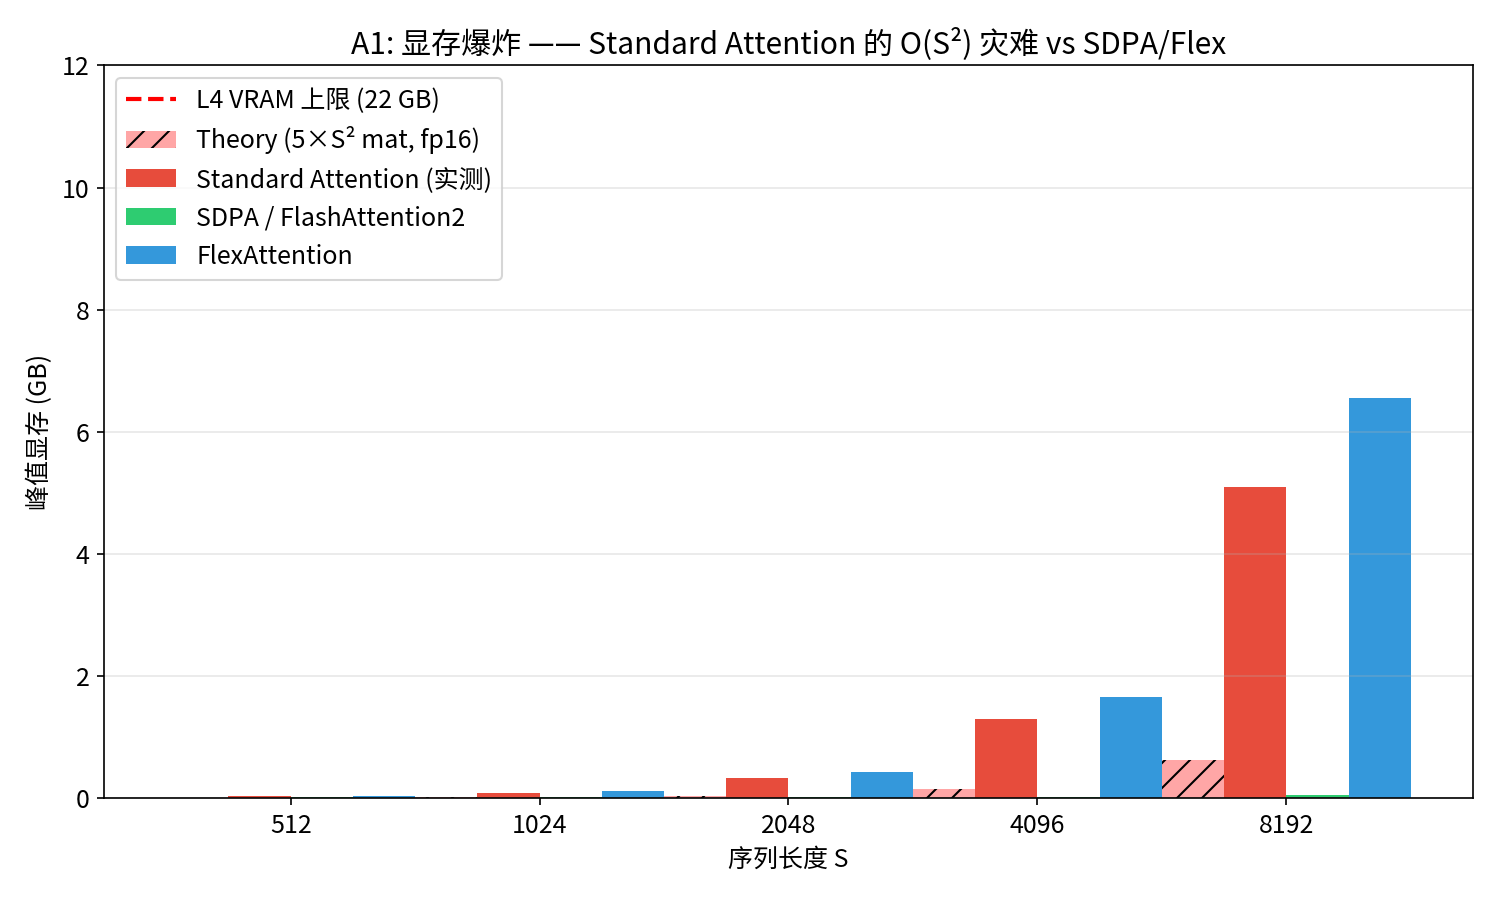
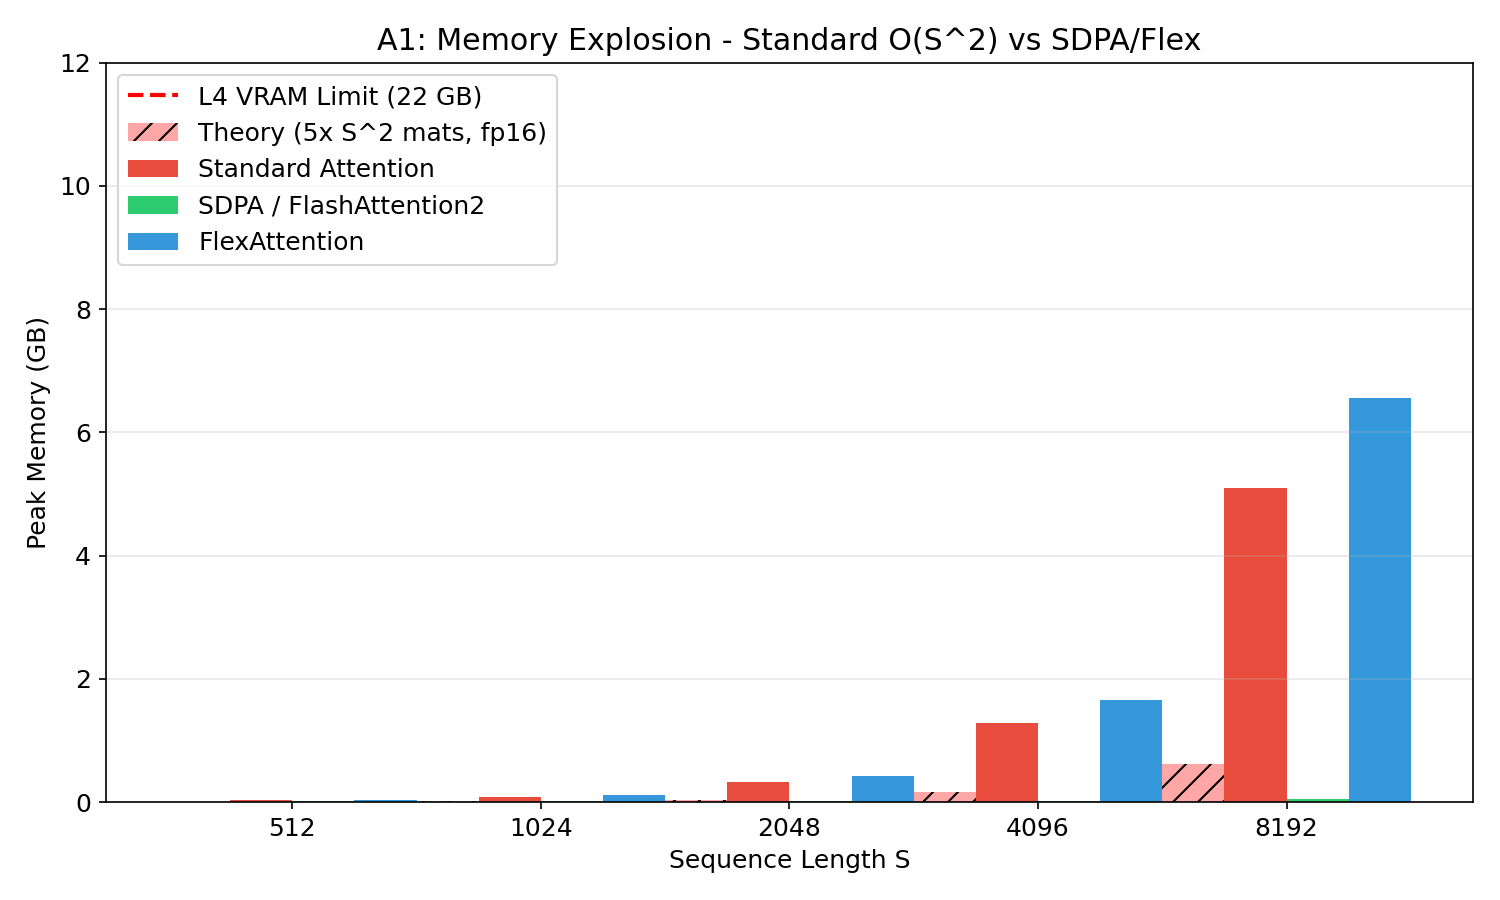
fix: use English for all chart text to fix garbled characters

diff --git a/flexatten_deep_dive.py b/flexatten_deep_dive.py
@@ -22,7 +22,7 @@ from pathlib import Path
 
 plt.rcParams['font.size'] = 12
 plt.rcParams['figure.dpi'] = 150
-plt.rcParams['font.family'] = ['Noto Sans CJK SC', 'DejaVu Sans']
+plt.rcParams['font.family'] = 'DejaVu Sans'
 plt.rcParams['axes.unicode_minus'] = False
 
 device = "cuda"
@@ -133,16 +133,16 @@ def exp_A1_memory_explosion():
     vals_flex = [actual_flex.get(s) for s in seqs]
     vals_theory = [theory[s] for s in seqs]
 
-    ax.bar(x - 1.5*w, vals_theory, w, label='Theory (5×S² mat, fp16)', color='#ff6b6b', alpha=0.6, hatch='//')
-    ax.bar(x - 0.5*w, [v if v else 0 for v in vals_std], w, label='Standard Attention (实测)', color='#e74c3c')
+    ax.bar(x - 1.5*w, vals_theory, w, label='Theory (5x S^2 mats, fp16)', color='#ff6b6b', alpha=0.6, hatch='//')
+    ax.bar(x - 0.5*w, [v if v else 0 for v in vals_std], w, label='Standard Attention', color='#e74c3c')
     ax.bar(x + 0.5*w, [v if v else 0 for v in vals_sdpa], w, label='SDPA / FlashAttention2', color='#2ecc71')
     ax.bar(x + 1.5*w, [v if v else 0 for v in vals_flex], w, label='FlexAttention', color='#3498db')
 
-    ax.axhline(y=22.0, color='red', linestyle='--', linewidth=2, label='L4 VRAM 上限 (22 GB)')
+    ax.axhline(y=22.0, color='red', linestyle='--', linewidth=2, label='L4 VRAM Limit (22 GB)')
 
-    ax.set_xlabel('序列长度 S')
-    ax.set_ylabel('峰值显存 (GB)')
-    ax.set_title('A1: 显存爆炸 —— Standard Attention 的 O(S²) 灾难 vs SDPA/Flex')
+    ax.set_xlabel('Sequence Length S')
+    ax.set_ylabel('Peak Memory (GB)')
+    ax.set_title('A1: Memory Explosion - Standard O(S^2) vs SDPA/Flex')
     ax.set_xticks(x)
     ax.set_xticklabels([str(s) for s in seqs])
     ax.legend(loc='upper left')
@@ -160,7 +160,7 @@ def exp_A1_memory_explosion():
 # ================================================================
 def exp_A2_bandwidth_starvation():
     print("\n" + "="*70)
-    print("  A2: 带宽饥饿 —— Standard 的多次 HBM 往返 vs SDPA 的单次闭环")
+    print("  A2: Bandwidth Starvation - Standard vs SDPA")
     print("="*70)
     H, D, B = 8, 64, 1
 
@@ -204,13 +204,13 @@ def exp_A2_bandwidth_starvation():
     # === 画图 A2: 速度对比 ===
     fig, ax = plt.subplots(figsize=(10, 6))
     seqs = sorted(std_times.keys())
-    ax.plot(seqs, [std_times[s] for s in seqs], 'o-', color='#e74c3c', linewidth=2, markersize=8, label='Standard Attention (多kernel串联)')
-    ax.plot(seqs, [sdpa_times[s] for s in seqs], 's-', color='#2ecc71', linewidth=2, markersize=8, label='SDPA / FlashAttention2 (单Fused kernel)')
-    ax.plot(seqs, [flex_times[s] for s in seqs], '^-', color='#3498db', linewidth=2, markersize=8, label='FlexAttention (Triton Fused kernel)')
+    ax.plot(seqs, [std_times[s] for s in seqs], 'o-', color='#e74c3c', linewidth=2, markersize=8, label='Standard (multi-kernel chain)')
+    ax.plot(seqs, [sdpa_times[s] for s in seqs], 's-', color='#2ecc71', linewidth=2, markersize=8, label='SDPA (single Fused kernel)')
+    ax.plot(seqs, [flex_times[s] for s in seqs], '^-', color='#3498db', linewidth=2, markersize=8, label='FlexAttention (Triton Fused)')
 
-    ax.set_xlabel('序列长度 S')
-    ax.set_ylabel('延迟 (ms)')
-    ax.set_title('A2: 带宽饥饿 —— 多次 HBM 往返 vs Fused Kernel 单次闭环')
+    ax.set_xlabel('Sequence Length S')
+    ax.set_ylabel('Latency (ms)')
+    ax.set_title('A2: Bandwidth Starvation - Multi HBM Trips vs Fused Kernel')
     ax.legend()
     ax.grid(alpha=0.3)
     ax.set_yscale('log')
@@ -303,15 +303,15 @@ def exp_A3_engineering_nightmare():
     steps = [7, 3]
     colors = ['#e74c3c', '#3498db']
     bars = ax1.bar(categories, steps, color=colors, width=0.5, edgecolor='black')
-    ax1.set_ylabel('实现步骤数')
-    ax1.set_title('A3-1: 代码复杂度 —— Document+SlidingWindow+ALiBi 组合')
+    ax1.set_ylabel('Implementation Steps')
+    ax1.set_title('A3-1: Code Complexity - Doc+SW+ALiBi Combo')
     for bar, s in zip(bars, steps):
         ax1.text(bar.get_x() + bar.get_width()/2., bar.get_height() + 0.1, str(s), ha='center', fontsize=16, fontweight='bold')
     ax1.set_ylim(0, 9)
     ax1.grid(axis='y', alpha=0.3)
 
     # 右图：性能对比
-    metrics = ['延迟 (ms)', '显存 (GB)']
+    metrics = ['Latency (ms)', 'Memory (GB)']
     vanilla_vals = [time_vanilla, mem_vanilla * 1000]  # scale for visibility
     flex_vals = [time_flex, mem_flex * 1000]
     x = np.arange(len(metrics))
@@ -321,7 +321,7 @@ def exp_A3_engineering_nightmare():
     b2 = ax2.bar(x + w/2, [time_flex, mem_flex], w, label='Flex', color='#3498db')
     ax2.set_xticks(x)
     ax2.set_xticklabels(metrics)
-    ax2.set_title('A3-2: 性能对比 —— 组合注意力模式')
+    ax2.set_title('A3-2: Performance - Combined Attention Mode')
     ax2.legend()
     ax2.grid(axis='y', alpha=0.3)
     for bar in b1:
@@ -344,7 +344,7 @@ def exp_A3_engineering_nightmare():
 # ================================================================
 def exp_B1_score_mod_fusion():
     print("\n" + "="*70)
-    print("  B1: score_mod 算子融合 —— 写后改 vs 融合计算")
+    print("  B1: score_mod Fusion - Write-Modify vs Fused")
     print("="*70)
     H, D, B = 8, 64, 1
     S = 2048
@@ -379,11 +379,11 @@ def exp_B1_score_mod_fusion():
 
     mem_std = peak_mem(write_then_modify)
     time_std = bench(write_then_modify, warmup=1, runs=5)
-    print(f"  写后改 (Standard): {time_std:.3f} ms, {mem_std:.3f} GB")
+    print(f"  Write-modify (Std): {time_std:.3f} ms, {mem_std:.3f} GB")
 
     mem_flex = peak_mem(lambda: flex_attention(q, k, v, score_mod=alibi_mod, block_mask=bm))
     time_flex = bench(lambda: flex_attention(q, k, v, score_mod=alibi_mod, block_mask=bm), warmup=2, runs=5)
-    print(f"  融合计算 (Flex):   {time_flex:.3f} ms, {mem_flex:.3f} GB")
+    print(f"  Fused (Flex):   {time_flex:.3f} ms, {mem_flex:.3f} GB")
 
     # 验证数值
     o1 = write_then_modify()
@@ -397,10 +397,10 @@ def exp_B1_score_mod_fusion():
     # 左图：HBM 访存流程示意
     ax1.set_xlim(0, 10)
     ax1.set_ylim(0, 10)
-    ax1.set_title('B1-1: HBM 访存路径对比')
+    ax1.set_title('B1-1: HBM Access Path Comparison')
 
     # Standard flow
-    ax1.text(0.5, 9.5, 'Standard (写后改)', fontsize=11, fontweight='bold', color='#e74c3c')
+    ax1.text(0.5, 9.5, 'Standard (write-then-modify)', fontsize=11, fontweight='bold', color='#e74c3c')
     steps_std = ['QK^T → HBM', '读HBM +Bias', '写回 HBM', 'Mask → HBM', 'Softmax → HBM', '×V → HBM']
     for i, s in enumerate(steps_std):
         y = 8.5 - i * 1.2
@@ -410,31 +410,31 @@ def exp_B1_score_mod_fusion():
             ax1.annotate('', xy=(2.2, y-0.5), xytext=(2.2, y-0.3), arrowprops=dict(arrowstyle='->', color='#e74c3c'))
 
     # Flex flow
-    ax1.text(5.5, 9.5, 'Flex (融合计算)', fontsize=11, fontweight='bold', color='#3498db')
+    ax1.text(5.5, 9.5, 'Flex (fused computation)', fontsize=11, fontweight='bold', color='#3498db')
     ax1.add_patch(Rectangle((5.3, 6.7), 4.3, 2.3, facecolor='#e0f0ff', edgecolor='#3498db', linewidth=2))
-    ax1.text(7.45, 8.5, '单 Fused Kernel', ha='center', va='center', fontsize=10, fontweight='bold', color='#3498db')
+    ax1.text(7.45, 8.5, 'Single Fused Kernel', ha='center', va='center', fontsize=10, fontweight='bold', color='#3498db')
     ax1.text(7.45, 7.8, 'QK^T + Bias + Mask', ha='center', va='center', fontsize=9)
-    ax1.text(7.45, 7.2, '+ Softmax + ×V', ha='center', va='center', fontsize=9)
+    ax1.text(7.45, 7.2, '+ Softmax + xV', ha='center', va='center', fontsize=9)
     ax1.annotate('', xy=(7.45, 4.5), xytext=(7.45, 6.7), arrowprops=dict(arrowstyle='->', color='#3498db', lw=2))
     ax1.add_patch(Rectangle((5.8, 3.9), 3.3, 0.6, facecolor='#e0ffe0', edgecolor='#2ecc71'))
-    ax1.text(7.45, 4.2, 'Output → HBM', ha='center', va='center', fontsize=9)
+    ax1.text(7.45, 4.2, 'Output -> HBM', ha='center', va='center', fontsize=9)
 
-    ax1.text(2.2, 1.5, '6次 HBM 写入', ha='center', fontsize=11, color='#e74c3c', fontweight='bold')
-    ax1.text(7.45, 3.0, '1次 HBM 写入', ha='center', fontsize=11, color='#2ecc71', fontweight='bold')
+    ax1.text(2.2, 1.5, '6x HBM writes', ha='center', fontsize=11, color='#e74c3c', fontweight='bold')
+    ax1.text(7.45, 3.0, '1x HBM write', ha='center', fontsize=11, color='#2ecc71', fontweight='bold')
 
     ax1.axis('off')
 
     # 右图：实测数据
-    labels = ['延迟 (ms)', '显存 (GB)']
+    labels = ['Latency (ms)', 'Memory (GB)']
     std_vals = [time_std, mem_std]
     flex_vals = [time_flex, mem_flex]
     x = np.arange(len(labels))
     w = 0.3
-    ax2.bar(x - w/2, std_vals, w, label='写后改 (Standard)', color='#e74c3c')
-    ax2.bar(x + w/2, flex_vals, w, label='融合计算 (Flex)', color='#3498db')
+    ax2.bar(x - w/2, std_vals, w, label='Write-modify (Std)', color='#e74c3c')
+    ax2.bar(x + w/2, flex_vals, w, label='Fused (Flex)', color='#3498db')
     ax2.set_xticks(x)
     ax2.set_xticklabels(labels)
-    ax2.set_title('B1-2: score_mod 融合 vs 写后改 (ALiBi, S=2048)')
+    ax2.set_title('B1-2: score_mod Fused vs Write-Modify (ALiBi, S=2048)')
     ax2.legend()
     ax2.grid(axis='y', alpha=0.3)
     for i, (sv, fv) in enumerate(zip(std_vals, flex_vals)):
@@ -456,7 +456,7 @@ def exp_B1_score_mod_fusion():
 # ================================================================
 def exp_B2_block_mask_visualization():
     print("\n" + "="*70)
-    print("  B2: BlockMask 块级稀疏原理可视化")
+    print("  B2: BlockMask Sparsity Visualization")
     print("="*70)
     S = 512  # 用小 S 画清晰的图
     BS = 128  # BlockSize
@@ -486,15 +486,15 @@ def exp_B2_block_mask_visualization():
 
     # === 画图 B2: 4 种 mask 的像素级 + 块级对比 ===
     fig, axes = plt.subplots(2, 4, figsize=(18, 9))
-    fig.suptitle('B2: BlockMask 块级稀疏原理 —— 像素级 Mask vs 块级 BlockMask (128×128)', fontsize=14)
+    fig.suptitle('B2: BlockMask Sparsity - Pixel vs Block (128x128)', fontsize=14)
 
     for col, (name, mask) in enumerate(masks_data.items()):
         # 上行：像素级 mask
         ax = axes[0, col]
         ax.imshow(mask, cmap='RdYlGn', interpolation='nearest', aspect='equal')
-        ax.set_title(f'{name}\n(像素级)', fontsize=10)
-        ax.set_xlabel('KV 位置')
-        ax.set_ylabel('Q 位置')
+        ax.set_title(f'{name}\n(pixel-level)', fontsize=10)
+        ax.set_xlabel('KV Position')
+        ax.set_ylabel('Q Position')
 
         # 下行：块级 mask
         ax2 = axes[1, col]
@@ -520,7 +520,7 @@ def exp_B2_block_mask_visualization():
             ax2.axvline(i - 0.5, color='gray', linewidth=0.5)
 
         sparsity = 1.0 - mask.sum() / (S * S)
-        ax2.set_title(f'块级 (稀疏率: {sparsity:.1%})\n绿=全计算 红=全跳过 黄=部分', fontsize=9)
+        ax2.set_title(f'Block (sparsity: {sparsity:.1%})\nGreen=compute Red=skip Yellow=partial', fontsize=9)
         ax2.set_xlabel('KV Block')
         ax2.set_ylabel('Q Block')
 
@@ -543,7 +543,7 @@ def exp_B2_block_mask_visualization():
 # ================================================================
 def exp_C1_code_comparison():
     print("\n" + "="*70)
-    print("  C1: 代码对比 —— Vanilla vs Flex (5 种注意力模式)")
+    print("  C1: Code Comparison - Vanilla vs Flex (5 patterns)")
     print("="*70)
     S, H, D, B = 2048, 8, 64, 1
     from torch.nn.attention.flex_attention import flex_attention, create_block_mask
@@ -675,12 +675,12 @@ def exp_C1_code_comparison():
 
     x = np.arange(len(names))
     w = 0.35
-    ax.bar(x - w/2, v_times, w, label='Vanilla (手动实现)', color='#e74c3c')
+    ax.bar(x - w/2, v_times, w, label='Vanilla (manual)', color='#e74c3c')
     ax.bar(x + w/2, f_times, w, label='FlexAttention', color='#3498db')
     ax.set_xticks(x)
     ax.set_xticklabels(names, rotation=15, ha='right')
-    ax.set_ylabel('延迟 (ms)')
-    ax.set_title('C1: 5 种注意力模式 —— Vanilla 手动实现 vs FlexAttention')
+    ax.set_ylabel('Latency (ms)')
+    ax.set_title('C1: 5 Attention Patterns - Vanilla vs FlexAttention')
     ax.legend()
     ax.grid(axis='y', alpha=0.3)
 
@@ -704,7 +704,7 @@ def exp_C1_code_comparison():
 # ================================================================
 def exp_C2_impossible_for_sdpa():
     print("\n" + "="*70)
-    print("  C2: SDPA 做不了的事 —— Flex 轻松实现")
+    print("  C2: Impossible for SDPA - Easy for Flex")
     print("="*70)
     H, D, B = 8, 64, 1
     S = 2048
@@ -772,7 +772,7 @@ def exp_C2_impossible_for_sdpa():
     mem4 = peak_mem(lambda: flex_attention(q, k, v, score_mod=ultimate_score, block_mask=bm4))
     print(f"    Flex: {t4:.3f} ms, {mem4:.3f} GB")
     print(f"    SDPA: 完全无法实现")
-    combos.append({"pattern": "Doc+SW+ALiBi+Softcap (终极)", "flex_ms": t4, "flex_mem": mem4, "sdpa": "不支持"})
+    combos.append({"pattern": "Doc+SW+ALiBi+Softcap", "flex_ms": t4, "flex_mem": mem4, "sdpa": "不支持"})
 
     # === 画图 C2 ===
     fig, ax = plt.subplots(figsize=(10, 6))
@@ -782,12 +782,12 @@ def exp_C2_impossible_for_sdpa():
     bars = ax.barh(names, times, color=colors, edgecolor='black')
     for bar, t in zip(bars, times):
         ax.text(bar.get_width() + 1, bar.get_y() + bar.get_height()/2, f'{t:.1f} ms', va='center', fontsize=10)
-    ax.set_xlabel('延迟 (ms)')
-    ax.set_title('C2: SDPA 无法实现的注意力模式 —— FlexAttention 轻松搞定')
+    ax.set_xlabel('Latency (ms)')
+    ax.set_title('C2: SDPA Cannot - FlexAttention Can')
     ax.axvline(x=0, color='gray', linewidth=0.5)
-    # 添加 "SDPA: 不支持" 标签
+    # 添加 "SDPA: N/A" 标签
     for i, name in enumerate(names):
-        ax.text(times[i] * 0.5, i, 'SDPA: 不支持', ha='center', va='center',
+        ax.text(times[i] * 0.5, i, 'SDPA: N/A', ha='center', va='center',
                 fontsize=9, color='white', fontweight='bold')
     ax.grid(axis='x', alpha=0.3)
     fig.tight_layout()
@@ -804,7 +804,7 @@ def exp_C2_impossible_for_sdpa():
 # ================================================================
 def exp_C3_scalability():
     print("\n" + "="*70)
-    print("  C3: 扩展性全面对比 —— 不同 S 下的显存/速度")
+    print("  C3: Scalability - Latency & Memory vs Seq Length")
     print("="*70)
     H, D, B = 8, 64, 1
     from torch.nn.attention.flex_attention import flex_attention, create_block_mask
@@ -852,22 +852,22 @@ def exp_C3_scalability():
     seqs = [s for s in seq_lengths if vanilla_t.get(s) or flex_t.get(s)]
 
     # 时间
-    ax1.plot(seqs, [vanilla_t.get(s) for s in seqs], 'o-', color='#e74c3c', linewidth=2, label='Vanilla (手动)')
+    ax1.plot(seqs, [vanilla_t.get(s) for s in seqs], 'o-', color='#e74c3c', linewidth=2, label='Vanilla (manual)')
     ax1.plot(seqs, [flex_t.get(s) for s in seqs], '^-', color='#3498db', linewidth=2, label='FlexAttention')
-    ax1.set_xlabel('序列长度 S')
-    ax1.set_ylabel('延迟 (ms)')
-    ax1.set_title('C3-1: Document(4)+Causal 延迟扩展性')
+    ax1.set_xlabel('Sequence Length S')
+    ax1.set_ylabel('Latency (ms)')
+    ax1.set_title('C3-1: Doc(4)+Causal Latency Scalability')
     ax1.legend()
     ax1.grid(alpha=0.3)
     ax1.set_yscale('log')
 
     # 显存
-    ax2.plot(seqs, [vanilla_m.get(s) for s in seqs], 'o-', color='#e74c3c', linewidth=2, label='Vanilla (手动)')
+    ax2.plot(seqs, [vanilla_m.get(s) for s in seqs], 'o-', color='#e74c3c', linewidth=2, label='Vanilla (manual)')
     ax2.plot(seqs, [flex_m.get(s) for s in seqs], '^-', color='#3498db', linewidth=2, label='FlexAttention')
-    ax2.axhline(y=22.0, color='red', linestyle='--', linewidth=2, label='L4 VRAM 上限')
-    ax2.set_xlabel('序列长度 S')
-    ax2.set_ylabel('峰值显存 (GB)')
-    ax2.set_title('C3-2: Document(4)+Causal 显存扩展性')
+    ax2.axhline(y=22.0, color='red', linestyle='--', linewidth=2, label='L4 VRAM Limit')
+    ax2.set_xlabel('Sequence Length S')
+    ax2.set_ylabel('Peak Memory (GB)')
+    ax2.set_title('C3-2: Doc(4)+Causal Memory Scalability')
     ax2.legend()
     ax2.grid(alpha=0.3)
 
